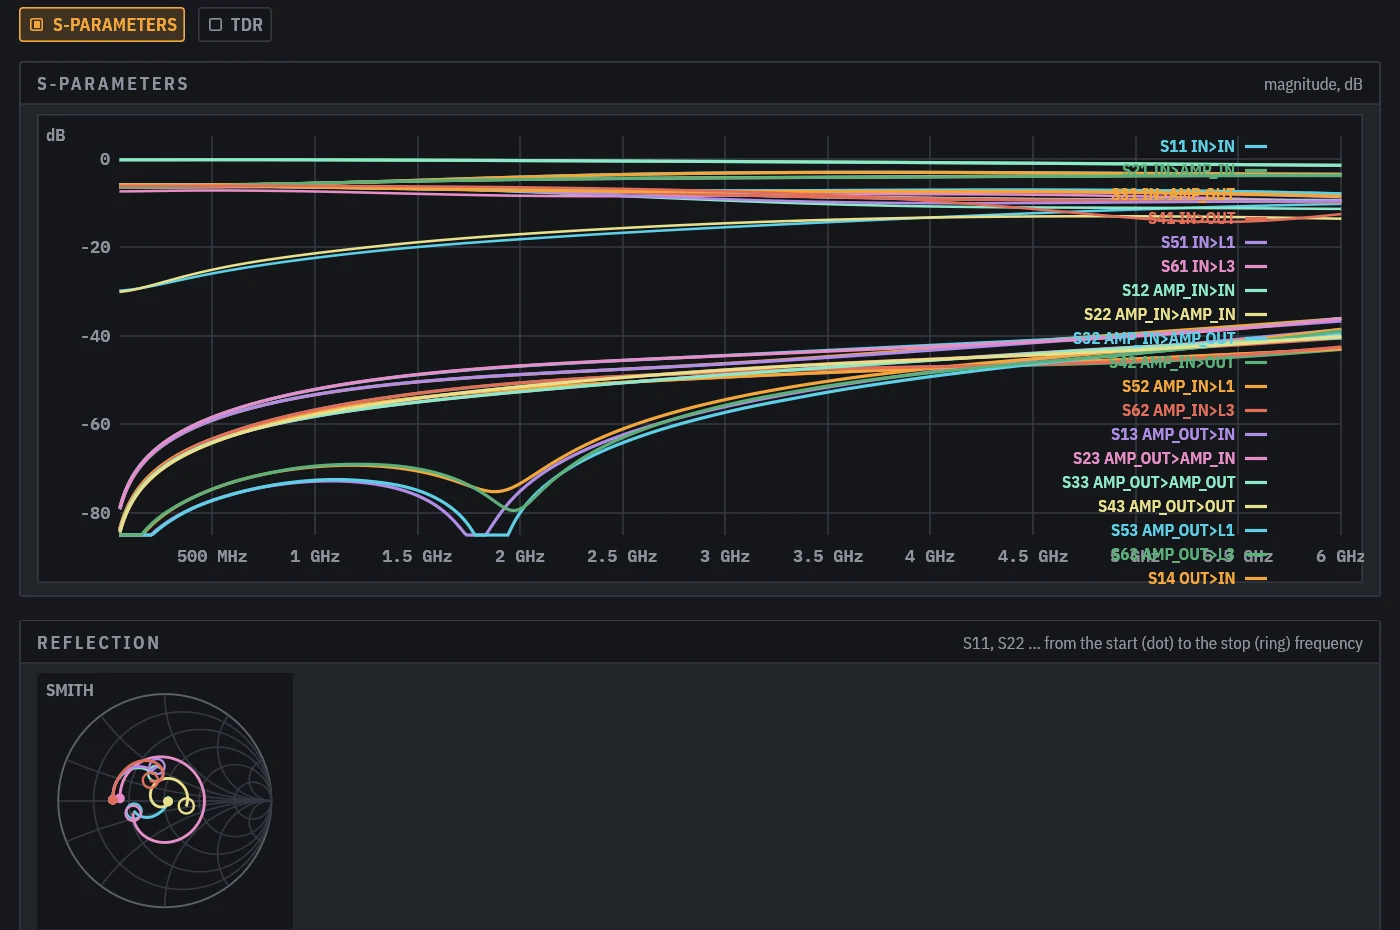
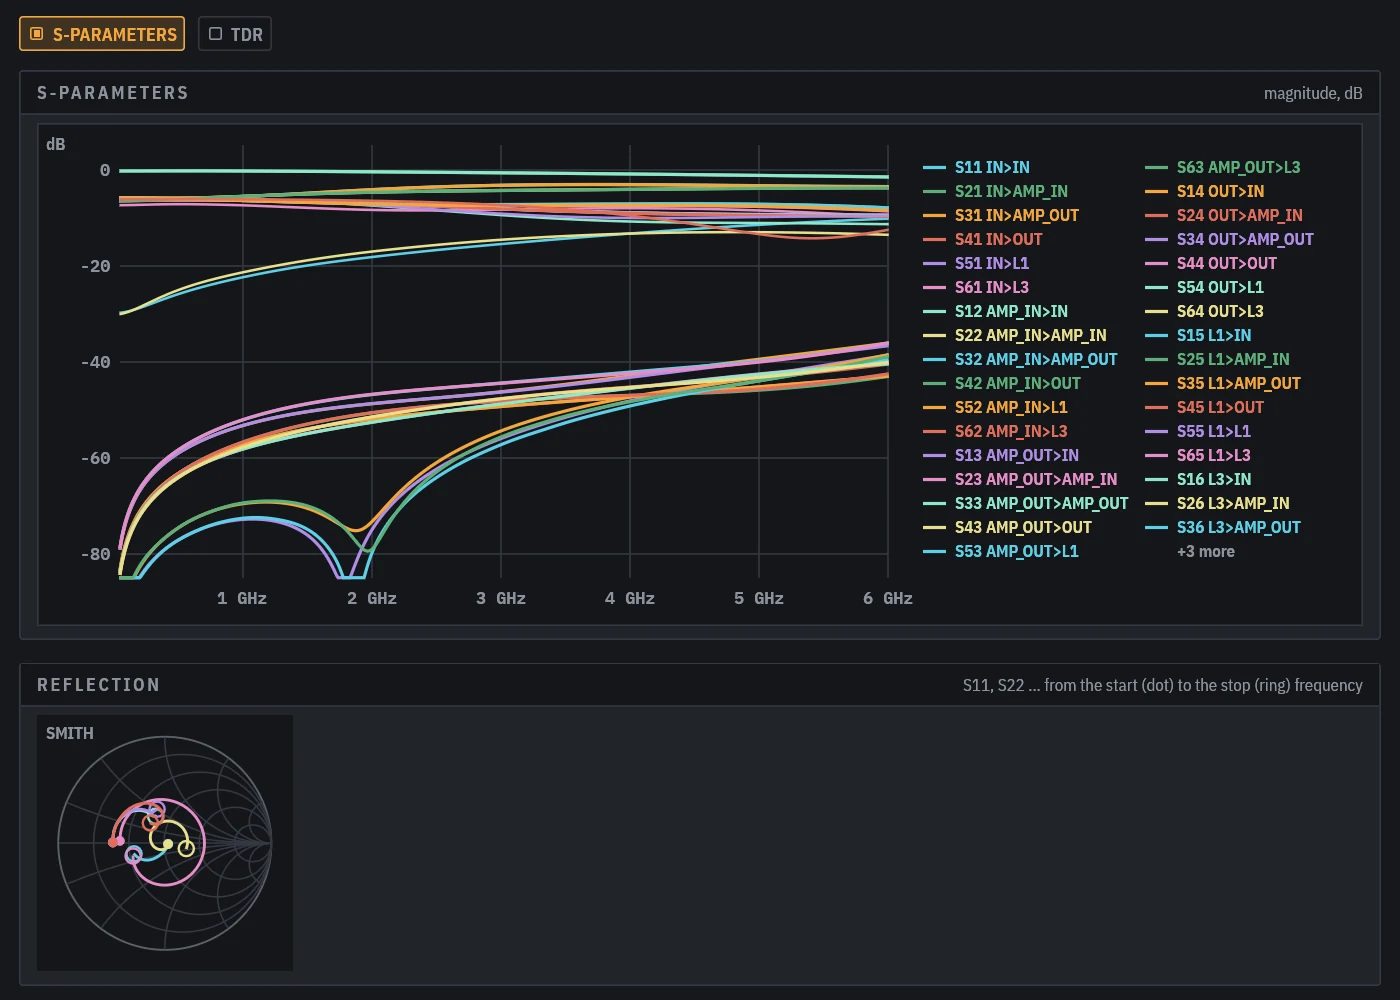
Rerender sims, drop the control row crop

diff --git a/scripts/sync.ts b/scripts/sync.ts
@@ -15,7 +15,7 @@ const COMMANDS = [
   'drc', 'sim', 'sparam', 'fab', 'export', 'parts', 'mcp', 'docs',
 ];
 
-type Render = { project: string; item: string; name: string; canvas?: boolean; size?: [number, number, number]; cropTop?: number };
+type Render = { project: string; item: string; name: string; canvas?: boolean; size?: [number, number, number] };
 
 const PANEL: [number, number, number] = [1400, 1000, 1.6];
 
@@ -23,12 +23,12 @@ const RENDERS: Render[] = [
   { project: 'lna', item: 'pcb:lna', name: 'lna-pcb', canvas: true },
   { project: 'lna', item: 'sch:lna', name: 'lna-sch', canvas: true },
   { project: 'lna', item: 'board:lna', name: 'lna-board', size: [1200, 760, 1.5] },
-  { project: 'lna', item: 'sim:lna-rf', name: 'lna-sim', canvas: true, size: PANEL, cropTop: 44 },
-  { project: 'lna', item: 'sim:lna-cascade', name: 'lna-cascade', canvas: true, size: PANEL, cropTop: 44 },
-  { project: 'lna', item: 'sim:lna-thermal', name: 'lna-thermal', canvas: true, size: PANEL, cropTop: 44 },
-  { project: 'lna', item: 'sim:lna-dc', name: 'lna-dc', canvas: true, size: PANEL, cropTop: 44 },
+  { project: 'lna', item: 'sim:lna-rf', name: 'lna-sim', canvas: true, size: PANEL },
+  { project: 'lna', item: 'sim:lna-cascade', name: 'lna-cascade', canvas: true, size: PANEL },
+  { project: 'lna', item: 'sim:lna-thermal', name: 'lna-thermal', canvas: true, size: PANEL },
+  { project: 'lna', item: 'sim:lna-dc', name: 'lna-dc', canvas: true, size: PANEL },
   { project: 'hackrf-pro', item: 'pcb:praline', name: 'praline-pcb', canvas: true },
-  { project: 'logic', item: 'sim:counter', name: 'logic-counter', canvas: true, size: [1400, 640, 1.8], cropTop: 44 },
+  { project: 'logic', item: 'sim:counter', name: 'logic-counter', canvas: true, size: [1400, 640, 1.8] },
   { project: 'demo', item: 'sym:STM32F103C8Tx', name: 'demo-symbol', canvas: true },
   { project: 'demo', item: 'fp:LQFP-48_7x7mm_P0.5mm', name: 'demo-footprint', canvas: true },
 ];
@@ -109,7 +109,7 @@ async function renders() {
   mkdirSync('public/assets/renders', { recursive: true });
   const tmp = mkdtempSync(join(tmpdir(), 'agentee-render-'));
   const convert =
-    'import sys; from PIL import Image; im = Image.open(sys.argv[1]).convert("RGB"); top = int(float(sys.argv[3])); im = im.crop((0, top, im.width, im.height)) if top else im; im.save(sys.argv[2], "WEBP", quality=88, method=6)';
+    'import sys; from PIL import Image; Image.open(sys.argv[1]).convert("RGB").save(sys.argv[2], "WEBP", quality=88, method=6)';
   for (const r of RENDERS) {
     const png = join(tmp, `${r.name}.png`);
     const [width, height, scale] = r.size ?? [1600, 1000, 1];
@@ -119,7 +119,7 @@ async function renders() {
       console.warn(`render ${r.project} ${r.item}: ${res.stderr}`);
       continue;
     }
-    await $`python3 -c ${convert} ${png} ${`public/assets/renders/${r.name}.webp`} ${(r.cropTop ?? 0) * scale}`;
+    await $`python3 -c ${convert} ${png} ${`public/assets/renders/${r.name}.webp`}`;
   }
   rmSync(tmp, { recursive: true });
   await renderSizes();
